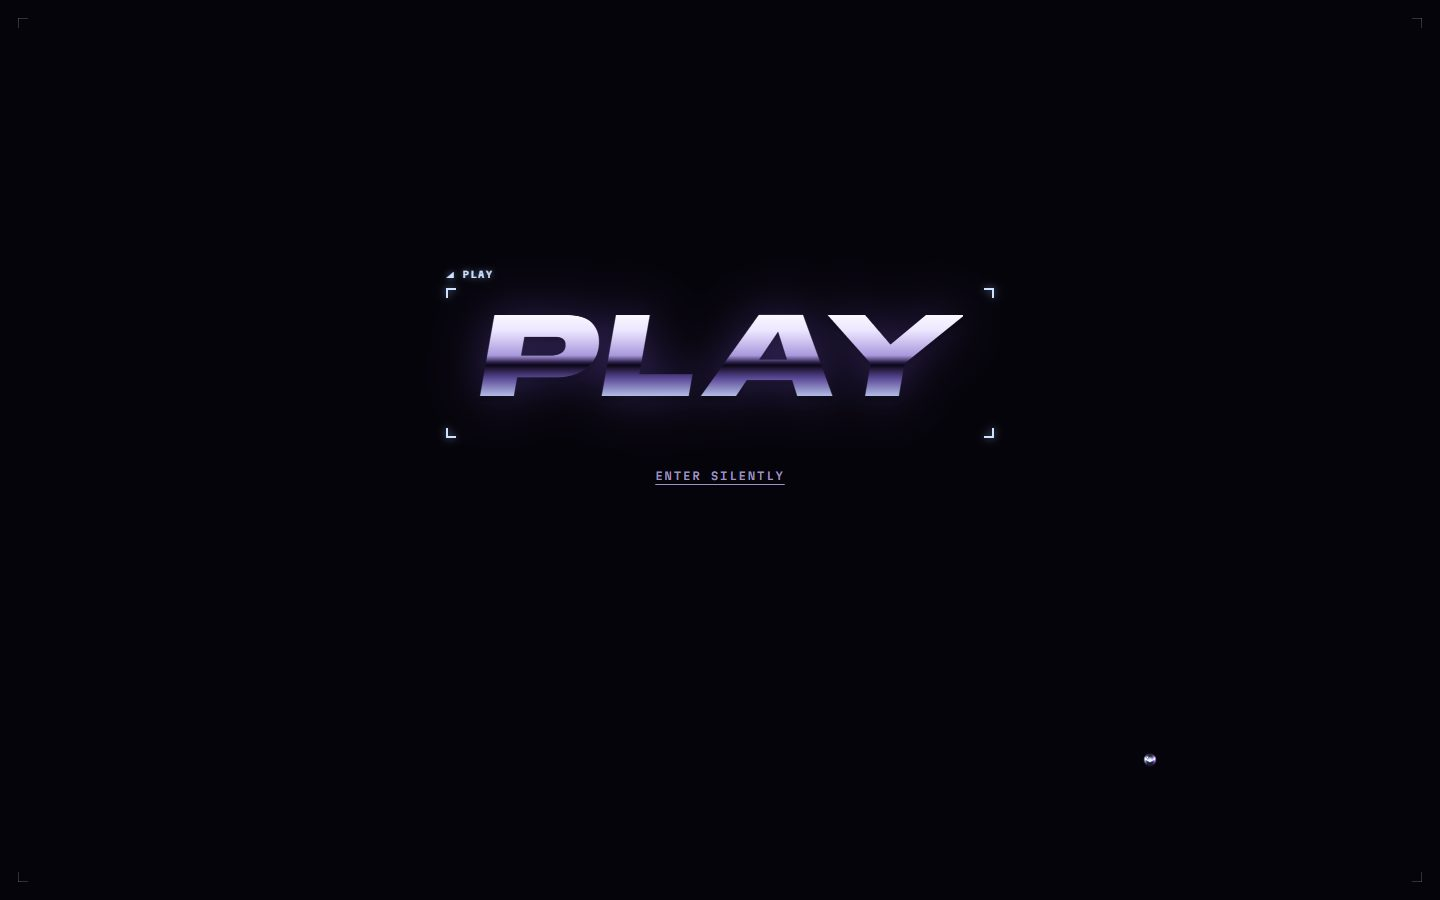
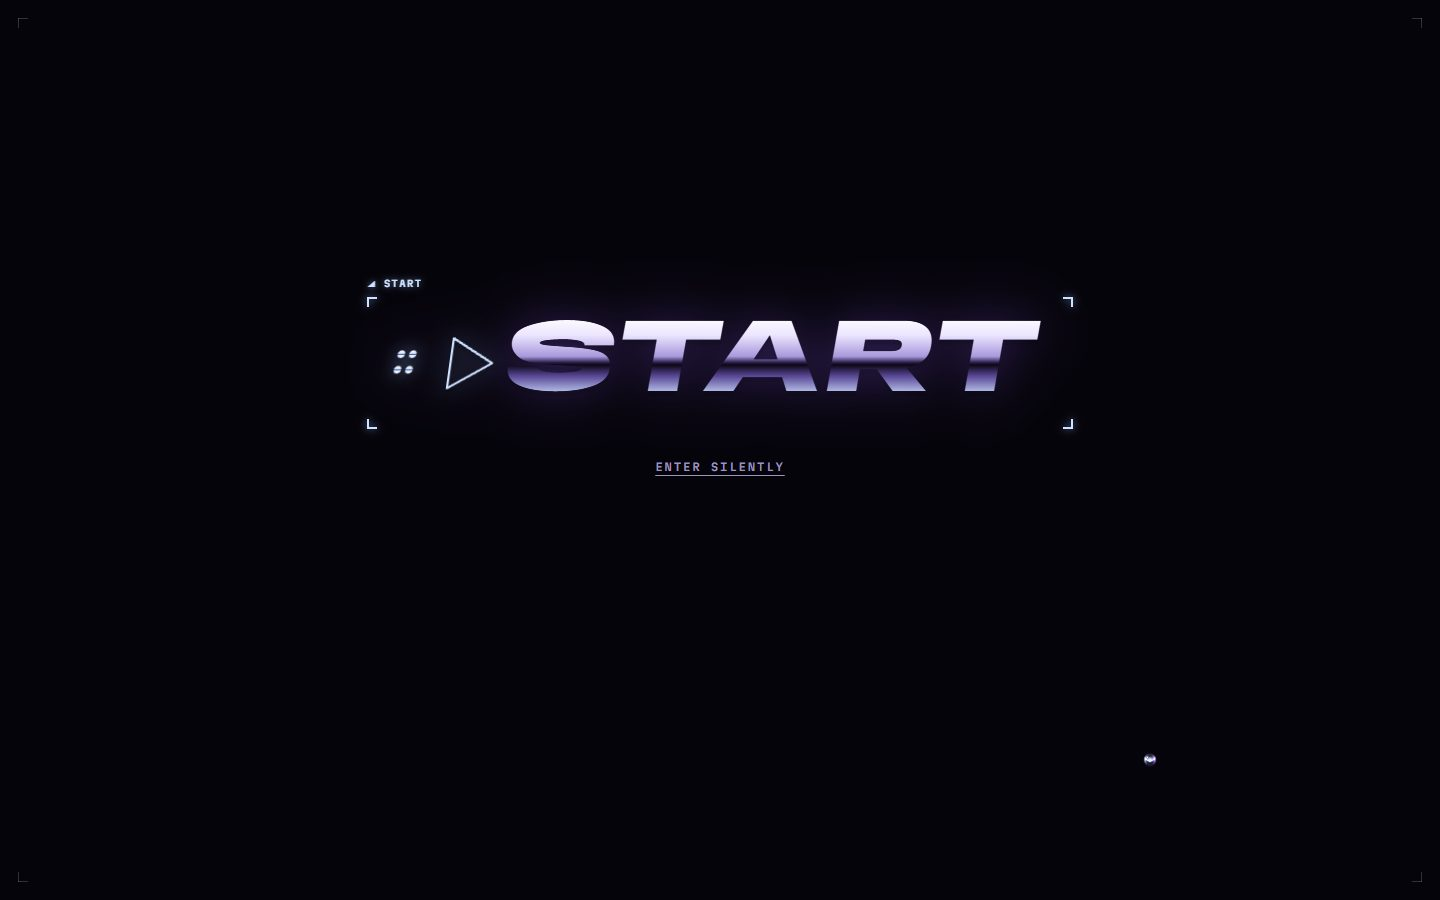
Bring back the ':: START' intro and write PLAY as text in the gamble section

diff --git a/assets/css/base.css b/assets/css/base.css
@@ -199,13 +199,19 @@ html.menu-open .menu-list li:nth-child(5){animation-delay:.2s}
 .gate-c.d{right:18px;bottom:18px;border-bottom-width:1.5px;border-right-width:1.5px;transform-origin:100% 100%}
 .gate.booting .gate-c{transform:scale(1.6)}
 .gate-inner{display:flex;flex-direction:column;align-items:center;gap:34px;text-align:center}
-/* "PLAY" — just the word, in the wordmark's chrome type, glowing softly (first visit only). */
-.gate-start{padding:.12em .2em;border:0;background:none;color:var(--nc-ink);cursor:pointer;
-  font-family:var(--nc-font-display);font-style:italic;font-stretch:150%;font-weight:900;font-size:clamp(52px,8.4vw,120px);line-height:.9;letter-spacing:-.02em;
-  filter:drop-shadow(0 0 22px rgba(139,92,246,.35)) drop-shadow(0 5px 0 rgba(0,0,0,.55));animation:ncGlow 2.6s ease-in-out infinite;transition:transform .3s var(--nc-ease)}
-@keyframes ncGlow{50%{filter:drop-shadow(0 0 34px rgba(140,185,255,.55)) drop-shadow(0 5px 0 rgba(0,0,0,.55))}}
+/* ":: ▷START" — wordmark-style button: chrome dots, an outlined play triangle that breathes, START in chrome type. */
+.gate-start{display:inline-flex;align-items:center;gap:.14em;padding:.12em .2em;border:0;background:none;color:var(--nc-ink);cursor:pointer;
+  font-family:var(--nc-font-display);font-style:italic;font-stretch:150%;font-weight:900;font-size:clamp(46px,7.4vw,104px);line-height:.9;letter-spacing:-.02em;
+  filter:drop-shadow(0 0 24px rgba(139,92,246,.35)) drop-shadow(0 5px 0 rgba(0,0,0,.55))}
+.gate-colons{flex:none;width:.2em;height:.27em;margin-right:.06em;fill:url(#g-ice);transform:skewX(-14deg);filter:drop-shadow(0 0 8px var(--nc-accent-glow))}
+.gate-play{flex:none;width:.52em;height:.6em;overflow:visible;transform:skewX(-8deg);transition:transform .35s var(--nc-ease)}
+.gate-play path{fill:transparent;stroke:var(--nc-accent);stroke-width:2.2;stroke-linejoin:round;vector-effect:non-scaling-stroke;
+  filter:drop-shadow(0 0 6px var(--nc-accent-glow));transition:fill .3s;animation:ncBreathe 2.4s ease-in-out infinite}
+@keyframes ncBreathe{50%{opacity:.35}}
 .gate-start-word{display:block;padding-right:.06em}
-.gate-start:hover{transform:scale(1.04)}
+.gate-start:hover .gate-play,.gate-start:focus-visible .gate-play{transform:skewX(-8deg) translateX(.08em)}
+.gate-start:hover .gate-play path{fill:var(--nc-accent);animation:none}
+.gate-start:focus-visible .gate-play path{animation:none}
 .gate-start:focus-visible{outline:none}
 .gate-silent{padding:6px 10px;border:0;background:none;color:var(--nc-hud);cursor:pointer;
   font:500 10.5px/1 var(--nc-font-mono);letter-spacing:.18em;text-transform:uppercase;text-decoration:underline;text-underline-offset:4px}
@@ -216,6 +222,5 @@ html.menu-open .menu-list li:nth-child(5){animation-delay:.2s}
 .gate.dropping{background:rgba(6,4,11,.35)}
 .gate.leaving{opacity:0}
 @media (prefers-reduced-motion:reduce){
-  .gate-start{animation:none}
   *,*::before,*::after{animation-duration:.001ms!important;animation-iteration-count:1!important;transition-duration:.001ms!important;scroll-behavior:auto!important}
 }

diff --git a/assets/css/home.css b/assets/css/home.css
@@ -187,22 +187,14 @@ html.vids-3d .vid-card.is-front{filter:none}
 .gamble-title{margin:0;font-family:var(--nc-font-display);font-style:italic;font-stretch:150%;font-weight:900;
   font-size:clamp(2.6rem,8vw,7.4rem);line-height:.86;letter-spacing:-.02em;
   filter:drop-shadow(0 0 22px rgba(139,92,246,.35)) drop-shadow(0 6px 0 rgba(0,0,0,.55))}
-.sec-gamble .play-btn{margin-top:clamp(26px,4vh,40px)}
-/* Play button to the case simulator: a thin silver-blue ring, an outlined triangle that fills on hover, a slow pulse. */
-.play-btn{position:relative;display:inline-grid;place-items:center;width:clamp(78px,7vw,104px);aspect-ratio:1;border-radius:50%;
-  border:1.5px solid var(--nc-accent);background:radial-gradient(circle at 35% 30%,rgba(207,226,255,.18),rgba(10,6,22,.6) 62%);
-  box-shadow:0 0 0 6px rgba(207,226,255,.05),0 0 30px -8px var(--nc-accent-glow);transition:box-shadow .3s,background .3s}
-.play-btn::before{content:"";position:absolute;inset:-10px;border-radius:50%;border:1px solid rgba(207,226,255,.3);pointer-events:none;
-  animation:ncRing 2.6s ease-out infinite}
-@keyframes ncRing{0%{transform:scale(.88);opacity:.85}100%{transform:scale(1.32);opacity:0}}
-.play-tri{width:38%;height:38%;margin-left:9%;overflow:visible}
-.play-tri path{fill:transparent;stroke:var(--nc-accent);stroke-width:2.2;stroke-linejoin:round;vector-effect:non-scaling-stroke;
-  filter:drop-shadow(0 0 6px var(--nc-accent-glow));transition:fill .3s}
-.play-btn:hover,.play-btn:focus-visible{background:radial-gradient(circle at 35% 30%,rgba(207,226,255,.28),rgba(20,10,44,.7) 62%);
-  box-shadow:0 0 0 9px rgba(207,226,255,.08),0 0 46px -6px var(--nc-accent-glow)}
-.play-btn:hover .play-tri path,.play-btn:focus-visible .play-tri path{fill:var(--nc-accent)}
-.play-btn:focus-visible{outline:none}
-@media (prefers-reduced-motion:reduce){.play-btn::before{animation:none;opacity:0}}
+.sec-gamble .play-link{margin-top:clamp(22px,3.5vh,36px)}
+/* "PLAY" — just the word, in the chrome display type, leading to the case simulator. */
+.play-link{display:inline-block;text-decoration:none;font-family:var(--nc-font-display);font-style:italic;font-stretch:150%;font-weight:900;
+  font-size:clamp(44px,5.6vw,84px);line-height:.9;letter-spacing:-.02em;padding:.06em .12em .06em 0;
+  filter:drop-shadow(0 0 20px rgba(139,92,246,.35)) drop-shadow(0 5px 0 rgba(0,0,0,.55));animation:ncPlayGlow 2.6s ease-in-out infinite;transition:filter .3s}
+@keyframes ncPlayGlow{50%{filter:drop-shadow(0 0 32px rgba(140,185,255,.55)) drop-shadow(0 5px 0 rgba(0,0,0,.55))}}
+.play-link:hover,.play-link:focus-visible{animation:none;filter:drop-shadow(0 0 36px rgba(140,185,255,.75)) drop-shadow(0 5px 0 rgba(0,0,0,.55))}
+.play-link:focus-visible{outline:none}
 
 /* ============ OUTRO ============ */
 .outro{

diff --git a/index.html b/index.html
@@ -119,7 +119,7 @@
   <span class="gate-c a" aria-hidden="true"></span><span class="gate-c b" aria-hidden="true"></span>
   <span class="gate-c c" aria-hidden="true"></span><span class="gate-c d" aria-hidden="true"></span>
   <div class="gate-inner">
-    <button id="enterBtn" class="gate-start" type="button" data-label="PLAY"><span class="gate-start-word chrome-text">PLAY</span></button>
+    <button id="enterBtn" class="gate-start" type="button" data-label="START"><svg class="gate-colons" viewBox="0 0 20 27" aria-hidden="true" focusable="false"><circle cx="4" cy="5" r="3.6"/><circle cx="15" cy="5" r="3.6"/><circle cx="4" cy="20" r="3.6"/><circle cx="15" cy="20" r="3.6"/></svg><svg class="gate-play" viewBox="0 0 26 30" aria-hidden="true" focusable="false"><path d="M3 3 L23 15 L3 27 Z"/></svg><span class="gate-start-word chrome-text">START</span></button>
     <button id="enterSilent" class="gate-silent" type="button">enter silently</button>
     <pre id="bootLines" class="gate-boot" aria-live="polite"></pre>
   </div>
@@ -260,7 +260,7 @@
   <section id="gamble" class="sec sec-gamble" aria-labelledby="gambleTitle">
     <p class="kicker">05 // case simulator</p>
     <h2 id="gambleTitle" class="gamble-title chrome-text">BASH ADDICTION</h2>
-    <a class="play-btn" href="/cases/" data-magnet data-label="PLAY" aria-label="Open a case"><svg class="play-tri" viewBox="0 0 26 30" aria-hidden="true" focusable="false"><path d="M5 3 L23 15 L5 27 Z"/></svg></a>
+    <a class="play-link" href="/cases/" data-magnet data-label="PLAY"><span class="chrome-text">PLAY</span></a>
   </section>
 </main>
 

diff --git a/tests/test_socials_gamble.py b/tests/test_socials_gamble.py
@@ -71,13 +71,12 @@ class GambleOutroTest(SiteTestCase):
         page = self.open("/")
         self.assertEqual(page.text_content("#gambleTitle").strip(), "BASH ADDICTION")
         self.assertEqual(page.locator("#gamble .gamble-sub").count(), 0)
-        # Just a play button (YupBash): no gel pill, the name stays for screen readers.
-        self.assertEqual(page.locator("#gamble .gel").count(), 0)
-        link = page.locator("#gamble a.play-btn")
+        # Just the word PLAY (YupBash): no pill, no round button, no icon.
+        self.assertEqual(page.locator("#gamble .gel, #gamble .play-btn, #gamble a svg").count(), 0)
+        link = page.locator("#gamble a.play-link")
         self.assertEqual(link.get_attribute("href"), "/cases/")
-        self.assertEqual(page.get_by_role("link", name="Open a case").count(), 1)
-        self.assertEqual(link.locator("svg.play-tri").count(), 1)
-        self.assertEqual(link.text_content().strip(), "")
+        self.assertEqual(link.text_content().strip(), "PLAY")
+        self.assertEqual(page.get_by_role("link", name="PLAY", exact=True).count(), 1)
         self.assertTrue(link.is_visible())
 
     def test_menu_has_no_case_simulator_link(self):

diff --git a/tests/test_mercure.py b/tests/test_mercure.py
@@ -21,13 +21,13 @@ class MercureTest(SiteTestCase):
     def test_hover_wraps_then_unwraps(self):
         page = self.open("/")
         page.evaluate(INIT)
-        page.evaluate("document.querySelector('#gamble a.play-btn').scrollIntoView({ block: 'center', behavior: 'instant' })")
+        page.evaluate("document.querySelector('#gamble a.play-link').scrollIntoView({ block: 'center', behavior: 'instant' })")
         page.wait_for_timeout(300)
-        box = page.locator("#gamble a.play-btn").bounding_box()
+        box = page.locator("#gamble a.play-link").bounding_box()
         page.mouse.move(box["x"] + box["width"] / 2, box["y"] + box["height"] / 2, steps=8)
         page.wait_for_timeout(700)
         self.assertGreater(page.evaluate(STATE)["wrap"], 0.9)
-        self.assertTrue(page.evaluate("window.__m.state().target === document.querySelector('#gamble a.play-btn')"))
+        self.assertTrue(page.evaluate("window.__m.state().target === document.querySelector('#gamble a.play-link')"))
         page.mouse.move(760, 760, steps=8)
         page.wait_for_timeout(900)
         self.assertLess(page.evaluate(STATE)["wrap"], 0.1)

diff --git a/tests/test_gate_audio.py b/tests/test_gate_audio.py
@@ -25,9 +25,9 @@ class GateTest(SiteTestCase):
 
     def test_start_button_is_minimal(self):
         page = self.open("/", entered=False)
-        # Just the word PLAY (YupBash, after release): no dots, no triangle.
-        self.assertEqual(" ".join(page.text_content("#enterBtn").split()), "PLAY")
-        self.assertEqual(page.locator("#enterBtn svg").count(), 0)
+        self.assertEqual(" ".join(page.text_content("#enterBtn").split()), "START")
+        self.assertEqual(page.locator("#enterBtn svg.gate-play").count(), 1)
+        self.assertEqual(page.locator("#enterBtn svg.gate-colons").count(), 1)
         self.assertFalse(page.evaluate("document.getElementById('enterBtn').classList.contains('gel')"))
         self.assertEqual(page.locator("#gate .gate-tab").count(), 0)
         self.assertNotIn("welcome..", page.text_content("#gate"))

diff --git a/tests/test_feedback_p1.py b/tests/test_feedback_p1.py
@@ -37,9 +37,9 @@ def nearest_brand(rgb):
 class FeedbackTest(SiteTestCase):
     def test_hover_shows_lock_brackets_with_label(self):
         page = self.open("/")
-        page.evaluate("document.querySelector('#gamble a.play-btn').scrollIntoView({ block: 'center', behavior: 'instant' })")
+        page.evaluate("document.querySelector('#gamble a.play-link').scrollIntoView({ block: 'center', behavior: 'instant' })")
         page.wait_for_timeout(300)
-        gel = page.locator("#gamble a.play-btn").bounding_box()
+        gel = page.locator("#gamble a.play-link").bounding_box()
         page.mouse.move(gel["x"] + gel["width"] / 2, gel["y"] + gel["height"] / 2, steps=6)
         page.wait_for_timeout(900)
         lock = page.evaluate("""() => { const l = document.querySelector('.mercure-lock'); if (!l) return null;

diff --git a/tests/test_hero.py b/tests/test_hero.py
@@ -5,10 +5,10 @@ import unittest
 from tests.harness import SiteTestCase
 
 # The hero has no buttons any more (YupBash, phase 3 checkpoint): the magnet is checked on the gamble button.
-MAGNET = "#gamble a.play-btn"
-TO_MAGNET = "document.querySelector('#gamble a.play-btn').scrollIntoView({ block: 'center', behavior: 'instant' })"
+MAGNET = "#gamble a.play-link"
+TO_MAGNET = "document.querySelector('#gamble a.play-link').scrollIntoView({ block: 'center', behavior: 'instant' })"
 MESSAGES = ["Stop that.", "Bro, stop.", "Alright, Don't do that.", "Hey!"]
-TX = "() => { const m = getComputedStyle(document.querySelector('#gamble a.play-btn')).transform; " \
+TX = "() => { const m = getComputedStyle(document.querySelector('#gamble a.play-link')).transform; " \
      "return m === 'none' ? 0 : new DOMMatrix(m).m41; }"
 
 

diff --git a/tests/test_foundation.py b/tests/test_foundation.py
@@ -33,7 +33,7 @@ class FoundationTest(SiteTestCase):
         gamble = text("#gamble")
         self.assertIn("BASH ADDICTION", gamble)
         self.assertNotIn("fake money, real addiction.", gamble)   # removed at YupBash's request
-        self.assertEqual(page.get_attribute('#gamble a[href="/cases/"]', "aria-label"), "Open a case")
+        self.assertEqual(text('#gamble a[href="/cases/"]'), "PLAY")
 
     def test_csp_meta_unchanged(self):
         page = self.open("/")

diff --git a/README.md b/README.md
@@ -32,11 +32,11 @@ Une ambiance **Y2K futuriste** : du noir, du violet profond, une touche de **sil
 
 <table>
 <tr>
-<td width="50%"><img src="docs/readme/start.jpg" alt="Écran PLAY"></td>
+<td width="50%"><img src="docs/readme/start.jpg" alt="Écran START"></td>
 <td width="50%"><img src="docs/readme/home.jpg" alt="Accueil"></td>
 </tr>
 <tr>
-<td><b>PLAY</b> — à la première visite, une intro de 2 s avec un son <i>entièrement synthétisé</i> (ou en silence).</td>
+<td><b>:: ▷START</b> — à la première visite, une intro de 2 s avec un son <i>entièrement synthétisé</i> (ou en silence).</td>
 <td><b>01 · Home</b> — <code>::BASH</code> en lettres chromées, le perso, et une sculpture de chrome liquide qui suit la souris.</td>
 </tr>
 <tr>
@@ -53,7 +53,7 @@ Une ambiance **Y2K futuriste** : du noir, du violet profond, une touche de **sil
 </tr>
 <tr>
 <td><b>04 · Socials & contact</b> — trois bulles de chrome, une par réseau, reflet aux couleurs de la marque au survol, e-mail copiable.</td>
-<td><b>05 · Click to gamble</b> — le chrome se transforme en jeton de casino, et un bouton play mène au simulateur.</td>
+<td><b>05 · Click to gamble</b> — le chrome se transforme en jeton de casino, et « PLAY » mène au simulateur.</td>
 </tr>
 </table>
 
@@ -109,16 +109,16 @@ Tout est sauvegardé **dans ton navigateur uniquement** : aucune vraie monnaie, 
 
 ```
 /
-├── index.html              Accueil : toutes les sections (écran PLAY, Home, Videos, About, Socials, Gamble, fin)
+├── index.html              Accueil : toutes les sections (écran START, Home, Videos, About, Socials, Gamble, fin)
 ├── 404.html                Page d'erreur (« 404 » en chrome)
 ├── socials/, faq/          Anciennes pages → redirigent vers /#socials et /#about
 ├── cases/                  BASH ADDICTION, le simulateur de caisses (index.html + données JSON)
 ├── assets/
 │   ├── css/tokens.css      Couleurs, polices, easing (variables --nc-*)
-│   ├── css/base.css        Socle commun : HUD, menu, boutons, écran PLAY, curseur, fond
+│   ├── css/base.css        Socle commun : HUD, menu, boutons, écran START, curseur, fond
 │   ├── css/home.css        Les sections de l'accueil
 │   ├── css/cases.css       Le thème Nocturne Chrome du simulateur
-│   ├── js/site.js          BashSite : stockage sûr, HUD en direct, menu, écran PLAY + intro
+│   ├── js/site.js          BashSite : stockage sûr, HUD en direct, menu, écran START + intro
 │   ├── js/chrome.js        BashChrome : la sculpture WebGL et ses états par section
 │   ├── js/mercure.js       BashMercure : le curseur goutte de chrome + crochets de verrouillage
 │   ├── js/home.js          BashHome : parcours au scroll, carrousel vidéo, fiche, contact, inclinaison
@@ -152,7 +152,7 @@ La sculpture change de forme à chaque section, avec un fondu continu au fil du 
 ```bash
 python -m http.server 8000      # puis http://localhost:8000
 ```
-Pour revoir l'écran PLAY, utilise une fenêtre de navigation privée : il ne s'affiche qu'à la première visite.
+Pour revoir l'écran START, utilise une fenêtre de navigation privée : il ne s'affiche qu'à la première visite.
 
 **Ajouter une vidéo TikTok** (elle remplace une carte « NO SIGNAL ») :
 ```bash
@@ -174,7 +174,7 @@ python -m unittest discover -s tests -v
 
 | Clé | Rôle |
 |---|---|
-| `bash_v3_entered` | `"1"` après l'écran PLAY (il ne revient plus) |
+| `bash_v3_entered` | `"1"` après l'écran START (il ne revient plus) |
 | `bash_v3_sfx` | `"on"` / `"off"` : sons activés |
 | `bash_v3_tilt` | `"granted"` / `"denied"` : autorisation du gyroscope (iPhone) |
 | `cs2sim_*` | sauvegarde du simulateur (solde, inventaire, stats, succès…) |

diff --git a/docs/superpowers/specs/2026-11-09-y2k-nocturne-chrome-design.md b/docs/superpowers/specs/2026-11-09-y2k-nocturne-chrome-design.md
@@ -97,7 +97,7 @@ Le rendu validé (hero, shader, curseur Mercure) existe en prototype local, non 
 Le HUD reste fixe pendant tout le scroll : menu, indicateur `0X / 05 — NOM` + barre de progression, bouton `SFX ON/OFF`, réseaux.
 
 ### 0 · Écran ENTER + intro (1re visite uniquement)
-- Écran noir, coins du HUD, bouton **« PLAY »** : juste le mot, en lettres chromées qui luisent doucement (demande de YupBash après la mise en ligne, qui remplace « :: ▷START »), lien discret *enter silently*.
+- Écran noir, coins du HUD, bouton épuré **« :: ▷START »** (points chromés, triangle en contour qui respire et se remplit au survol, START en lettres chromées, d'après le croquis de YupBash ; brièvement remplacé par « PLAY » puis rétabli à sa demande), lien discret *enter silently*.
 - **ENTER** : débloque l'audio, active les SFX, puis lance l'intro (≈ 2 s) **avec son** : lignes « système » qui s'écrivent avec un tic chacune (ton humoristique, ex. `vibes: questionable ✓`), note montante quand les coins se tracent, « bloop » liquide quand la goutte de chrome tombe, basse sourde quand la page s'ouvre.
 - **enter silently** : même intro, sans son ; SFX coupés.
 - Sur iPhone, ce même tap demande l'autorisation d'inclinaison.
@@ -131,7 +131,7 @@ Le HUD reste fixe pendant tout le scroll : menu, indicateur `0X / 05 — NOM` + 
 
 ### 05 · CLICK TO GAMBLE
 - Chrome : les gouttes fusionnent en un **jeton de casino** (disque à bord cranté) qui tourne lentement.
-- Texte : « BASH ADDICTION » (la phrase « fake money, real addiction. » a été retirée à la demande de YupBash) + un simple **bouton play** (cercle fin silver bleu, triangle en contour qui se remplit au survol, anneau qui pulse ; nom accessible « Open a case ») → `/cases/` — demandé par YupBash après la mise en ligne, qui a aussi fait retirer le lien « Case simulator » du menu.
+- Texte : « BASH ADDICTION » (la phrase « fake money, real addiction. » a été retirée à la demande de YupBash) + juste le mot **« PLAY »** en lettres chromées qui luisent doucement → `/cases/` (ni pilule, ni bouton rond, à la demande de YupBash) — demandé par YupBash après la mise en ligne, qui a aussi fait retirer le lien « Case simulator » du menu.
 
 ### Fin
 - « Don't miss the next one. » + les 3 réseaux + signature **« BASH · 2024–2026 »** en Permanent Marker.
